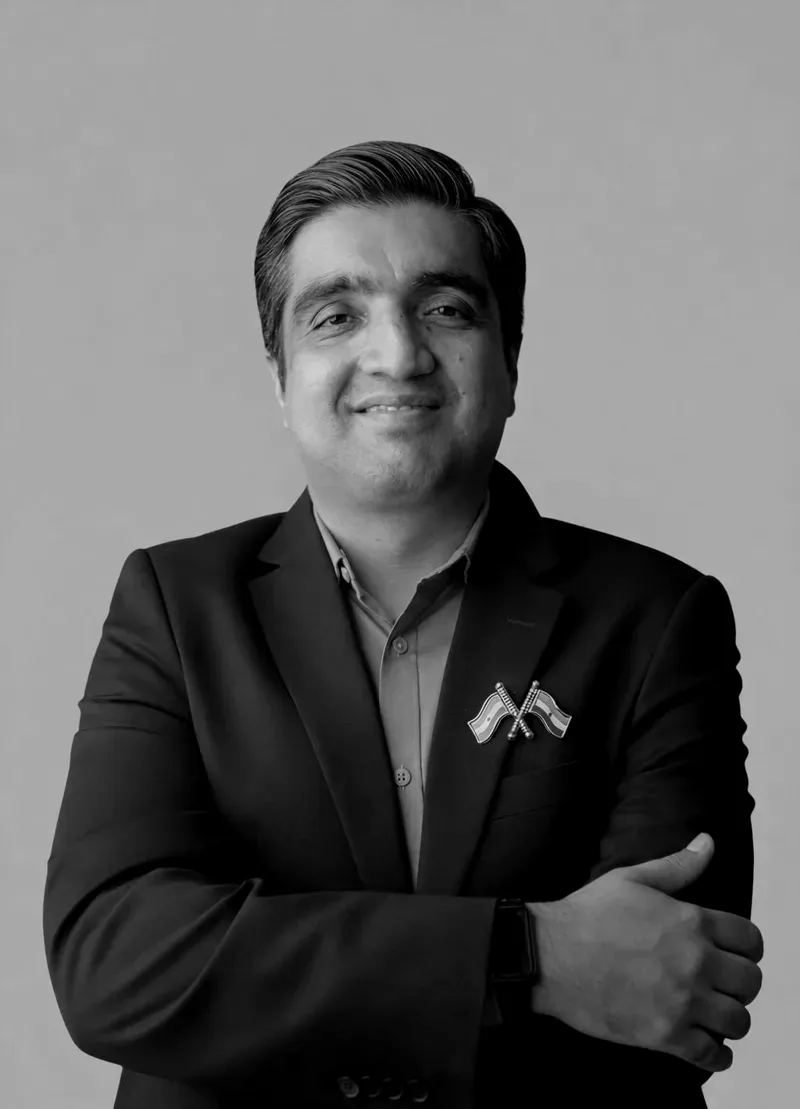
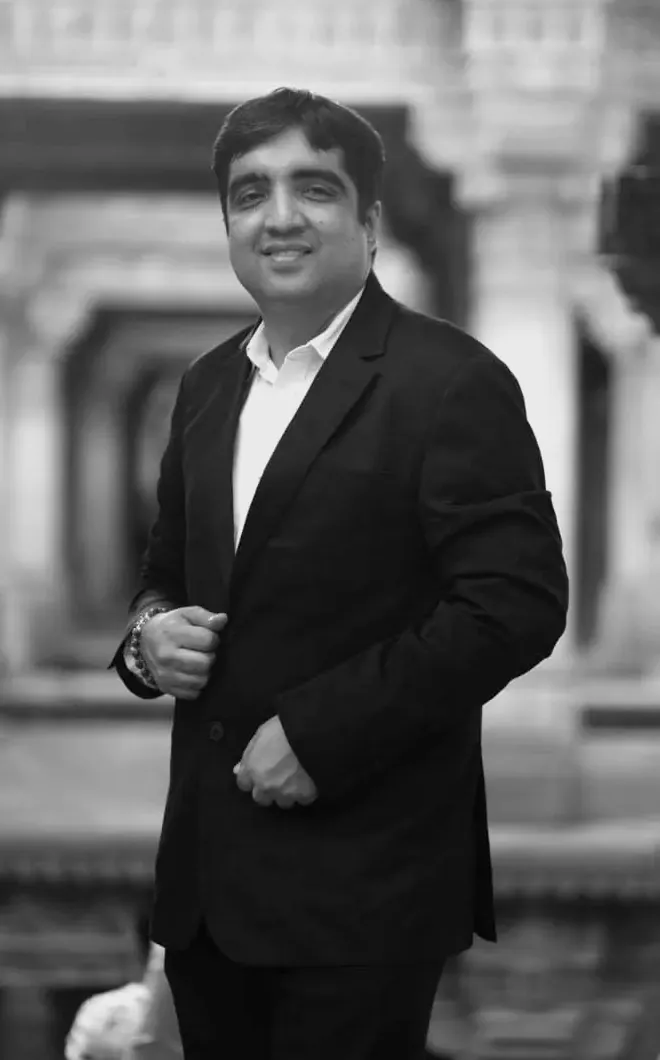
Use Sunil's real photos: portrait and session gallery
- Replace the AI-edited portrait with a real photo (colour and monochrome),
  cropped to Sunil; regenerate the social share image
- New 'In the room' section on Home and Training: two drifting strips of
  10 real session photos (corporate training, workshops, team activity,
  business forums), paused off-screen and on hover, lazy-loaded WebP
  (15-120KB each)
- Gallery data in src/data/content.js with neutral captions

Claude-Session: https://claude.ai/code/session_012JKy7DkBZBzMhApNTeteme

diff --git a/src/styles.css b/src/styles.css
@@ -3093,7 +3093,7 @@ figcaption small {
   -webkit-mask-image: linear-gradient(90deg, transparent 0%, #000 30%);
   mask-image: linear-gradient(90deg, transparent 0%, #000 30%);
   object-fit: cover;
-  object-position: center 12%;
+  object-position: center 18%;
 }
 .meet-shade {
   position: absolute;
@@ -3366,6 +3366,7 @@ body {
   color: var(--gold-2);
 }
 .scta .lead,
+.room .lead,
 .teaser .lead,
 .hc .lead,
 .meet .lead,
@@ -3529,4 +3530,95 @@ body {
   color: #ffb4a0;
   font-size: 0.9rem;
   margin: -6px 0 14px;
+}
+
+/* ---------- In the room: drifting photo strips ---------- */
+.room {
+  background: var(--ink);
+  color: var(--cream);
+  overflow-x: clip;
+}
+.room-row {
+  overflow: hidden;
+  padding: 8px 0;
+  -webkit-mask-image: linear-gradient(90deg, transparent, #000 6%, #000 94%, transparent);
+  mask-image: linear-gradient(90deg, transparent, #000 6%, #000 94%, transparent);
+}
+.room-track {
+  display: flex;
+  gap: 14px;
+  width: max-content;
+  animation: room-drift 70s linear infinite;
+  animation-play-state: paused; /* runs only while the section is on screen */
+}
+.room.is-live .room-track {
+  animation-play-state: running;
+}
+.room-row.rev .room-track {
+  animation-direction: reverse;
+  animation-duration: 80s;
+}
+.room-row:hover .room-track {
+  animation-play-state: paused;
+}
+@keyframes room-drift {
+  to {
+    transform: translateX(-50%);
+  }
+}
+.room-tile {
+  position: relative;
+  height: clamp(180px, 24vw, 300px);
+  border-radius: 18px;
+  overflow: hidden;
+  flex-shrink: 0;
+  margin: 0;
+  background: var(--forest-2);
+}
+.room-tile img {
+  width: 100%;
+  height: 100%;
+  object-fit: cover;
+  filter: saturate(0.55) brightness(0.88);
+  transform: scale(1.02);
+  transition: filter 0.6s var(--ease), transform 0.8s var(--ease);
+}
+.room-tile:hover img {
+  filter: none;
+  transform: scale(1.07);
+}
+.room-tile figcaption {
+  position: absolute;
+  left: 12px;
+  bottom: 12px;
+  padding: 6px 12px;
+  border-radius: 999px;
+  background: rgba(6, 19, 13, 0.78);
+  color: var(--cream);
+  font-size: 0.75rem;
+  font-weight: 600;
+  opacity: 0;
+  transform: translateY(8px);
+  transition: opacity 0.4s, transform 0.5s var(--ease);
+}
+.room-tile:hover figcaption {
+  opacity: 1;
+  transform: none;
+}
+@media (hover: none) {
+  .room-tile figcaption {
+    opacity: 1;
+    transform: none;
+  }
+  .room-tile img {
+    filter: saturate(0.8);
+  }
+}
+@media (prefers-reduced-motion: reduce) {
+  .room-track {
+    animation: none;
+  }
+  .room-row {
+    overflow-x: auto;
+  }
 }

diff --git a/src/components/Premium.jsx b/src/components/Premium.jsx
@@ -1,7 +1,7 @@
 import { useRef, useState } from 'react'
 import { AnimatePresence, motion, useInView, useMotionValueEvent, useScroll, useSpring, useTransform } from 'motion/react'
 import { Link, useNavigate } from 'react-router-dom'
-import { availability, faqs, impact, process, testimonials, values } from '../data/content'
+import { availability, faqs, gallery, impact, process, testimonials, values } from '../data/content'
 import { questions } from '../data/healthcheck'
 import { scenes } from './Scenes'
 import { EngineGears } from './Gears'
@@ -456,6 +456,41 @@ export function ScarcityCTA({ title = 'Start with', em = 'sixty minutes.' }) {
           </Button>
         </Reveal>
       </div>
+    </section>
+  )
+}
+
+/* =========================================================
+   In the room — two drifting strips of real session photos
+   ========================================================= */
+export function InTheRoom({ title = '300,000+ professionals.', em = 'Rooms like these.', sub }) {
+  const ref = useRef(null)
+  const onScreen = useInView(ref, { margin: '120px' }) // strips only move while visible
+  const rows = [gallery.filter((_, i) => i % 2 === 0), gallery.filter((_, i) => i % 2 === 1)]
+  return (
+    <section className={`section room ${onScreen ? 'is-live' : ''}`} ref={ref}>
+      <div className="container">
+        <div className="split-head">
+          <Heading eyebrow="In the room" title={title} em={em} light />
+          <Reveal as="p" className="lead side-lead" delay={0.1}>
+            {sub || 'Workshops, leadership sessions and team sprints run by Sunil Anandani across India — no stock photos.'}
+          </Reveal>
+        </div>
+      </div>
+      {rows.map((row, r) => (
+        <div className={`room-row ${r ? 'rev' : ''}`} key={r}>
+          <div className="room-track">
+            {[0, 1].map((dup) =>
+              row.map((g) => (
+                <figure className="room-tile" key={`${dup}-${g.src}`} aria-hidden={dup === 1} style={{ aspectRatio: `${g.w} / ${g.h}` }}>
+                  <img src={g.src} alt={dup ? '' : `${g.caption} led by Sunil Anandani`} width={g.w} height={g.h} loading="lazy" decoding="async" />
+                  <figcaption>{g.caption}</figcaption>
+                </figure>
+              )),
+            )}
+          </div>
+        </div>
+      ))}
     </section>
   )
 }

diff --git a/src/data/content.js b/src/data/content.js
@@ -217,3 +217,18 @@ export const faqs = [
   { q: 'Do you work only in one city?', a: 'No. Swayambhuti serves SMEs across India, with client work in cities including Pune, Ahmedabad and Mumbai. Engagements combine on-site workshops with remote follow-through.' },
   { q: 'Who is Sunil Anandani?', a: 'Sunil Anandani is the founder and chief consultant of Swayambhuti Consultants — an SME business transformation specialist with 20+ years of experience, 150+ businesses transformed and 300,000+ professionals impacted through consulting and training.' },
 ]
+
+// Real photos from Sunil's sessions (public/img/work). Captions describe only what is visible.
+// ⚠ Attendees are identifiable in some photos — confirm the organisers are happy for them to be public.
+export const gallery = [
+  { src: '/img/work/session-hands.webp', w: 960, h: 720, caption: 'Corporate training session' },
+  { src: '/img/work/venue-mic.webp', w: 960, h: 640, caption: 'Interactive workshop' },
+  { src: '/img/work/team-outdoor.webp', w: 960, h: 640, caption: 'Team engagement activity' },
+  { src: '/img/work/event-mic.webp', w: 960, h: 638, caption: 'Business forum' },
+  { src: '/img/work/hotel.webp', w: 604, h: 1280, caption: 'Team training' },
+  { src: '/img/work/flipchart.webp', w: 960, h: 639, caption: 'Facilitating a session' },
+  { src: '/img/work/venue-wide.webp', w: 960, h: 640, caption: 'Workshop in session' },
+  { src: '/img/work/network-mic.webp', w: 724, h: 1086, caption: 'Business network meet' },
+  { src: '/img/work/screen.webp', w: 960, h: 720, caption: 'Training session' },
+  { src: '/img/work/stage.webp', w: 864, h: 1152, caption: 'Keynote session' },
+]

diff --git a/src/pages/Pages.jsx b/src/pages/Pages.jsx
@@ -4,7 +4,7 @@ import { cases, industries, pillars, posts, services, site, stats, testimonials,
 import Icon from '../components/Icon'
 import { Button, Counter, ease, Heading, Reveal, rise, SplitText, Stagger, TiltCard } from '../components/motion'
 import { CTA } from '../components/Layout'
-import { FAQ, StackedTestimonials, ValuesQuad } from '../components/Premium'
+import { FAQ, InTheRoom, StackedTestimonials, ValuesQuad } from '../components/Premium'
 import { useSeo } from '../seo'
 import { submitLead } from '../lib/leads'
 import { track } from '../lib/marketing'
@@ -59,7 +59,7 @@ export function About() {
         <div className="container founder-grid">
           <div className="portrait-wrap">
             <motion.div className="portrait" initial={{ clipPath: 'inset(0 100% 0 0 round 28px)' }} whileInView={{ clipPath: 'inset(0 0% 0 0 round 28px)' }} viewport={{ once: true }} transition={{ duration: 1.4, ease }}>
-              <img src="/img/sunil-bw.webp" alt="Sunil Anandani" loading="lazy" />
+              <img src="/img/sunil.webp" alt="Sunil Anandani" loading="lazy" />
             </motion.div>
           </div>
           <div className="prose">
@@ -326,6 +326,7 @@ export function Training() {
           ))}
         </Stagger>
       </section>
+      <InTheRoom title="Sessions that" em="change how teams work." sub="A glimpse of recent workshops, leadership sessions and team-engagement sprints." />
       <CTA title="Book a" em="training program." sub="All programs can be customized for your industry and team size. Get in touch to discuss your requirements." />
     </>
   )

diff --git a/src/pages/Home.jsx b/src/pages/Home.jsx
@@ -15,7 +15,7 @@ import { industries, painTicker, pains, pillars, services, stats, testimonials }
 import Icon from '../components/Icon'
 import { Button, Counter, Deferred, ease, Heading, Marquee, Reveal, rise, SplitText, Stagger, TiltCard } from '../components/motion'
 import { EngineGears } from '../components/Gears'
-import { FAQ, HealthTeaser, Impact, MeetSunil, ProcessPinned, ScarcityCTA, StackedTestimonials, ValuesQuad } from '../components/Premium'
+import { FAQ, HealthTeaser, Impact, InTheRoom, MeetSunil, ProcessPinned, ScarcityCTA, StackedTestimonials, ValuesQuad } from '../components/Premium'
 import { useSeo } from '../seo'
 
 const EngineCanvas = lazy(() => import('../three/EngineCanvas'))
@@ -448,7 +448,7 @@ export default function Home() {
       <Hero />
       <Marquee items={painTicker} className="marquee-pain" />
       <Problem />
-      {[HealthTeaser, MeetSunil, Services, EngineScroller, Impact, ProcessPinned, StatsBand, ValuesQuad, Industries, StackedTestimonials, FAQ, ScarcityCTA].map((S, i) => (
+      {[HealthTeaser, MeetSunil, InTheRoom, Services, EngineScroller, Impact, ProcessPinned, StatsBand, ValuesQuad, Industries, StackedTestimonials, FAQ, ScarcityCTA].map((S, i) => (
         <Deferred key={i}>
           <S {...(S === ValuesQuad ? { dark: true } : {})} />
         </Deferred>
